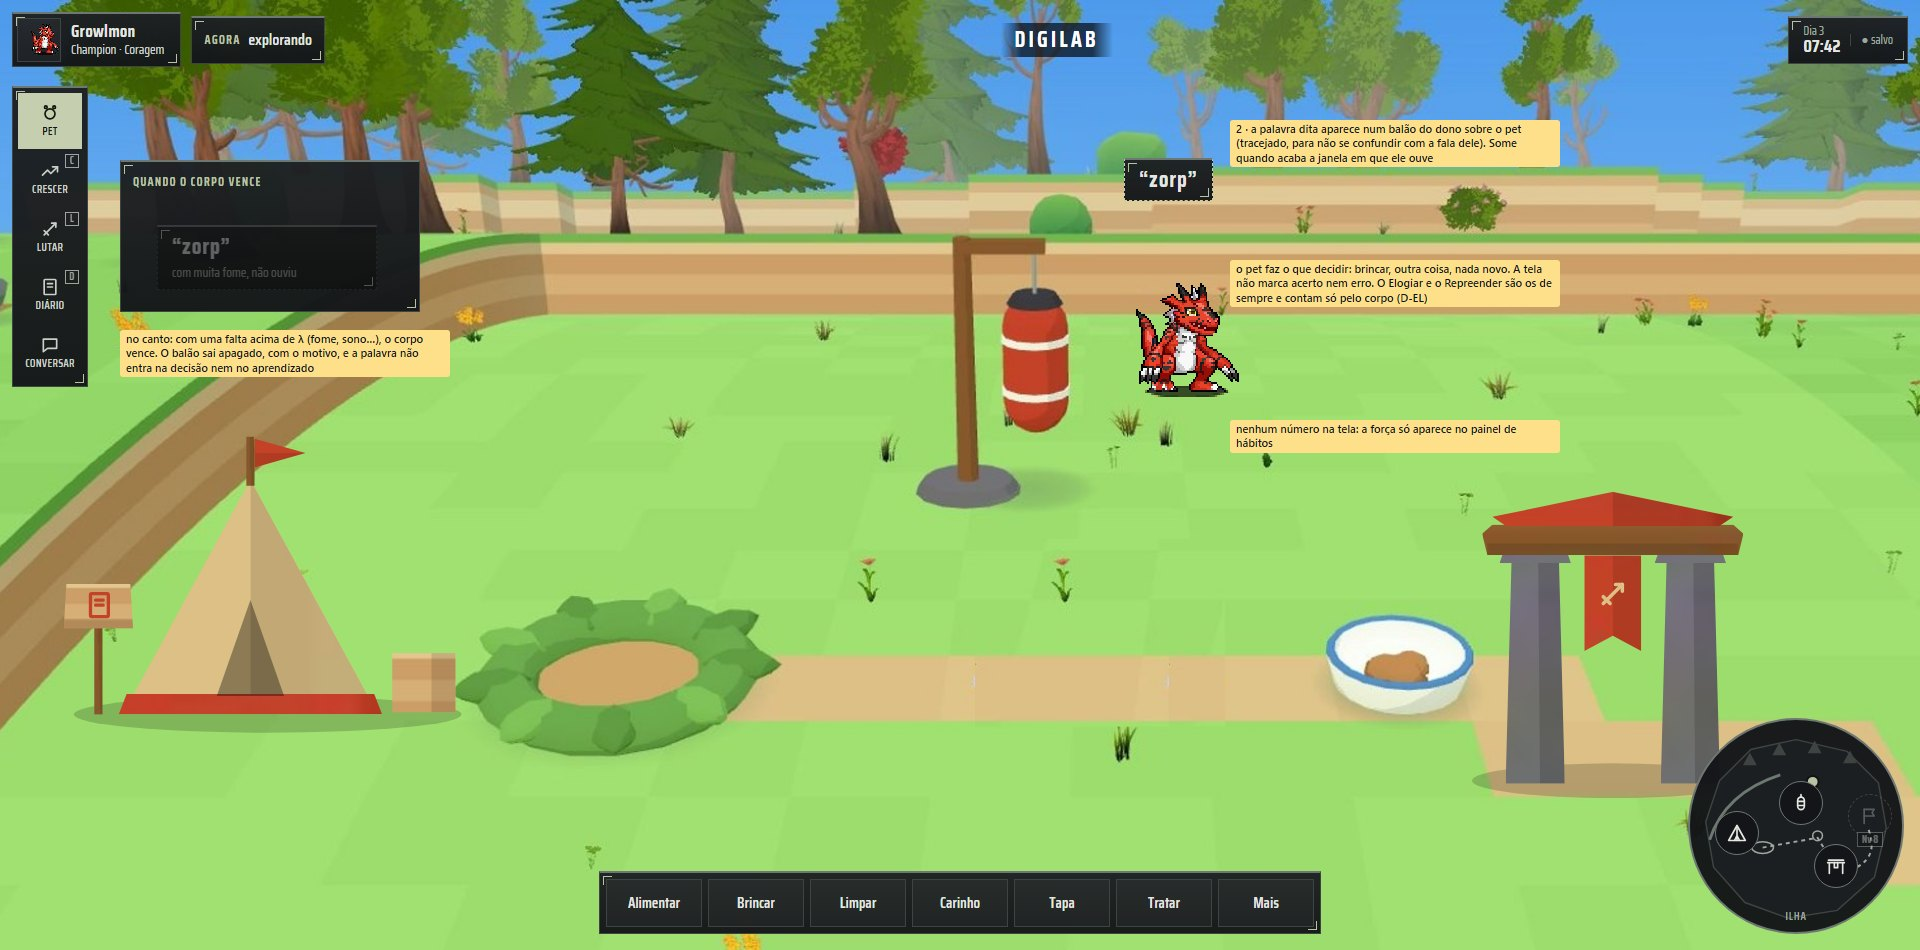
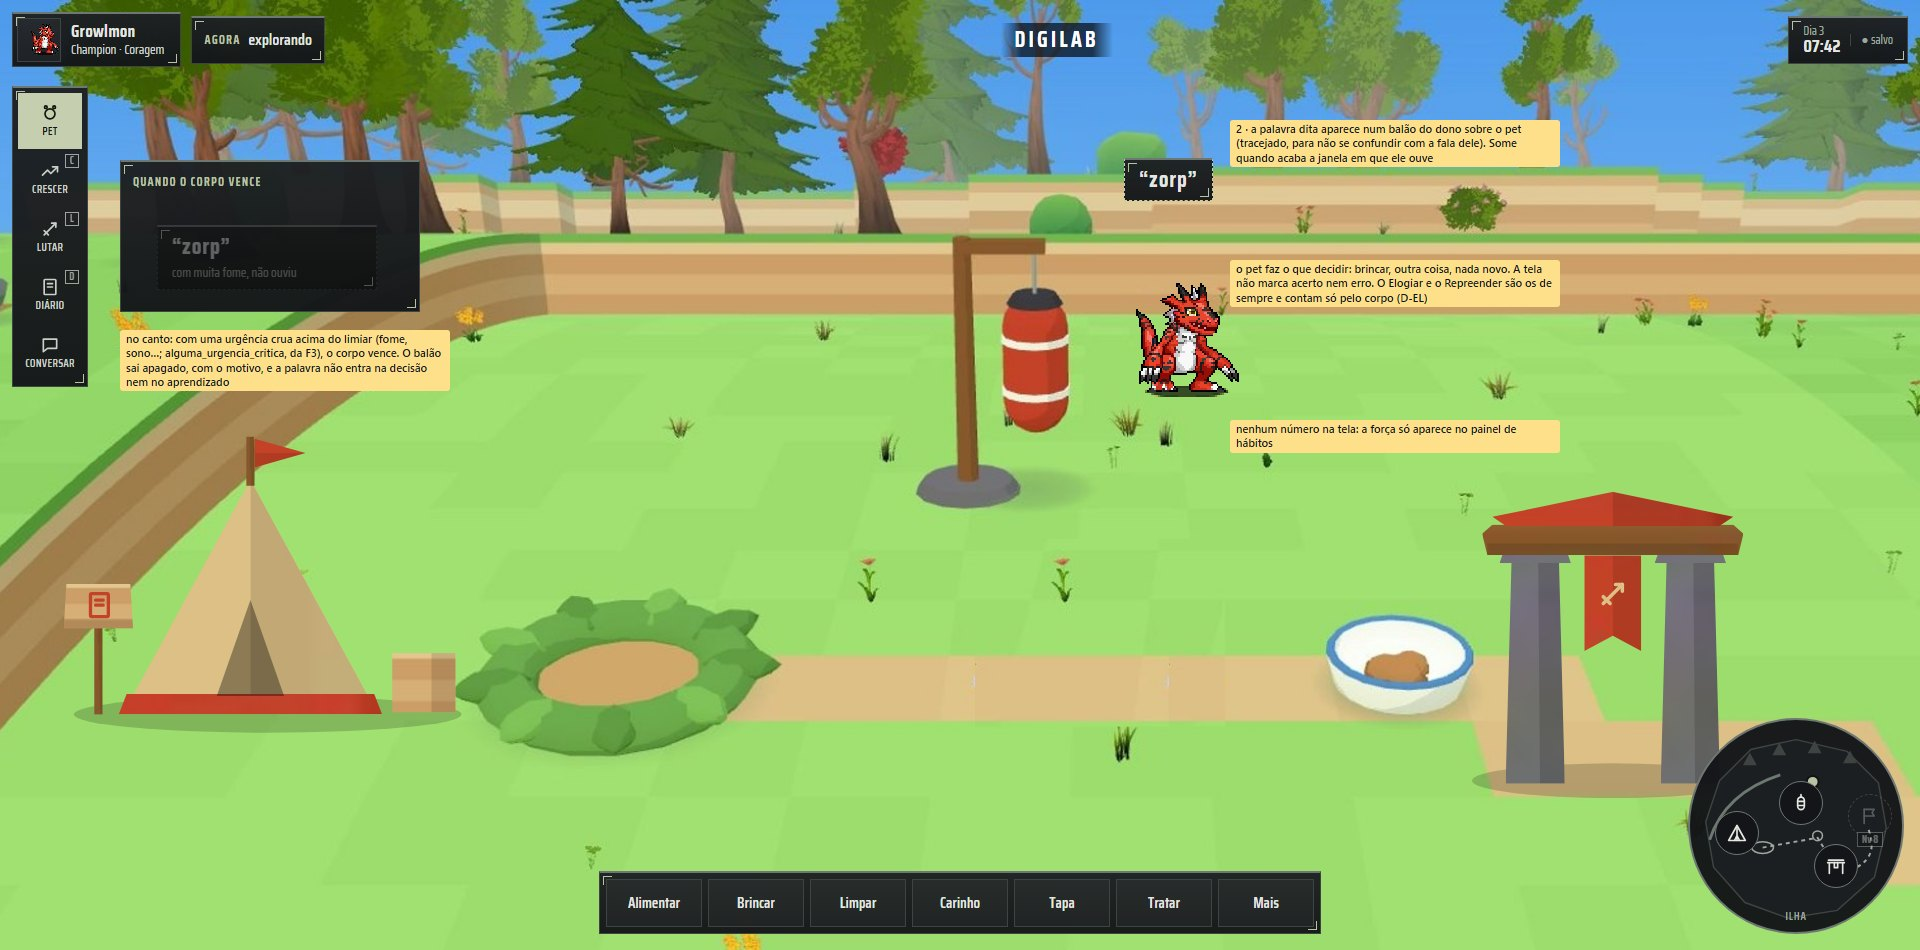
PALAVRA_DONO PD0: a porta le alguma_urgencia_critica (F3); acrescimos do GARP e do Dreyfus

Changed region(s): [[0.0625, 0.3358, 0.25, 0.4274]]

diff --git a/docs/pranchas/ux-palavra-dono/ouviu_1920.html b/docs/pranchas/ux-palavra-dono/ouviu_1920.html
@@ -30,4 +30,4 @@ addEventListener("load", () => {
   <path class="trilha" d="M74 130 L130 120 L146 146 L170 150 Q192 138 182 112"/>
   <ellipse class="coisa" cx="74" cy="130" rx="11" ry="6"/><circle class="coisa" cx="130" cy="118" r="5"/>
   <circle class="pet-ponto" cx="125" cy="63" r="6"/>
-</svg><button type="button" class="mini-bt" style="left:111px;top:83px" aria-label="Saco de pancada: Crescer"><svg class="ic" viewBox="0 0 24 24" aria-hidden="true"><path d="M12 2v3"/><rect x="8" y="5" width="8" height="15" rx="4"/><path d="M8 10h8M8 15h8"/></svg></button><button type="button" class="mini-bt" style="left:146px;top:146px" aria-label="Portão da arena: Lutar"><svg class="ic" viewBox="0 0 24 24" aria-hidden="true"><path d="M4 21V8M20 21V8M2 8h20M3 5h18"/><path d="M10 8v6h4V8"/></svg></button><button type="button" class="mini-bt" style="left:47px;top:113px" aria-label="Barraca do Tamer: Diário"><svg class="ic" viewBox="0 0 24 24" aria-hidden="true"><path d="M12 3L2 21h20z"/><path d="M12 3v18M9 21l3-6 3 6"/></svg></button><button type="button" class="mini-bt trancado" style="left:180px;top:96px" aria-disabled="true" aria-label="Fronteira, trancado, Nv 8: Abre com 6 medalhas"><svg class="ic" viewBox="0 0 24 24" aria-hidden="true"><path d="M5 21V4"/><path d="M5 4h12l-2.5 4L17 12H5"/></svg><span class="mini-nv">Nv 8</span></button><span class="mini-rot">ilha</span></nav><div class="caixa pl-balao" style="left:1124px;top:158px" role="status" aria-label="Você disse zorp"><span class="pl-dita">“zorp”</span></div><section class="caixa pl-inset" aria-label="Quando o corpo vence"><span class="rot">Quando o corpo vence</span><div class="pl-inset-cena"><div class="caixa pl-balao apagado" style="left:24px;top:34px" role="status" aria-label="Você disse zorp"><span class="pl-dita">“zorp”</span><span class="pl-motivo">com muita fome, não ouviu</span></div></div></section><span class="nota" style="left:1230px;top:120px;max-width:330px">2 · a palavra dita aparece num balão do dono sobre o pet (tracejado, para não se confundir com a fala dele). Some quando acaba a janela em que ele ouve</span><span class="nota" style="left:1230px;top:260px;max-width:330px">o pet faz o que decidir: brincar, outra coisa, nada novo. A tela não marca acerto nem erro. O Elogiar e o Repreender são os de sempre e contam só pelo corpo (D-EL)</span><span class="nota" style="left:120px;top:330px;max-width:330px">no canto: com uma falta acima de λ (fome, sono…), o corpo vence. O balão sai apagado, com o motivo, e a palavra não entra na decisão nem no aprendizado</span><span class="nota" style="left:1230px;top:420px;max-width:330px">nenhum número na tela: a força só aparece no painel de hábitos</span></body></html>
+</svg><button type="button" class="mini-bt" style="left:111px;top:83px" aria-label="Saco de pancada: Crescer"><svg class="ic" viewBox="0 0 24 24" aria-hidden="true"><path d="M12 2v3"/><rect x="8" y="5" width="8" height="15" rx="4"/><path d="M8 10h8M8 15h8"/></svg></button><button type="button" class="mini-bt" style="left:146px;top:146px" aria-label="Portão da arena: Lutar"><svg class="ic" viewBox="0 0 24 24" aria-hidden="true"><path d="M4 21V8M20 21V8M2 8h20M3 5h18"/><path d="M10 8v6h4V8"/></svg></button><button type="button" class="mini-bt" style="left:47px;top:113px" aria-label="Barraca do Tamer: Diário"><svg class="ic" viewBox="0 0 24 24" aria-hidden="true"><path d="M12 3L2 21h20z"/><path d="M12 3v18M9 21l3-6 3 6"/></svg></button><button type="button" class="mini-bt trancado" style="left:180px;top:96px" aria-disabled="true" aria-label="Fronteira, trancado, Nv 8: Abre com 6 medalhas"><svg class="ic" viewBox="0 0 24 24" aria-hidden="true"><path d="M5 21V4"/><path d="M5 4h12l-2.5 4L17 12H5"/></svg><span class="mini-nv">Nv 8</span></button><span class="mini-rot">ilha</span></nav><div class="caixa pl-balao" style="left:1124px;top:158px" role="status" aria-label="Você disse zorp"><span class="pl-dita">“zorp”</span></div><section class="caixa pl-inset" aria-label="Quando o corpo vence"><span class="rot">Quando o corpo vence</span><div class="pl-inset-cena"><div class="caixa pl-balao apagado" style="left:24px;top:34px" role="status" aria-label="Você disse zorp"><span class="pl-dita">“zorp”</span><span class="pl-motivo">com muita fome, não ouviu</span></div></div></section><span class="nota" style="left:1230px;top:120px;max-width:330px">2 · a palavra dita aparece num balão do dono sobre o pet (tracejado, para não se confundir com a fala dele). Some quando acaba a janela em que ele ouve</span><span class="nota" style="left:1230px;top:260px;max-width:330px">o pet faz o que decidir: brincar, outra coisa, nada novo. A tela não marca acerto nem erro. O Elogiar e o Repreender são os de sempre e contam só pelo corpo (D-EL)</span><span class="nota" style="left:120px;top:330px;max-width:330px">no canto: com uma urgência crua acima do limiar (fome, sono…; alguma_urgencia_critica, da F3), o corpo vence. O balão sai apagado, com o motivo, e a palavra não entra na decisão nem no aprendizado</span><span class="nota" style="left:1230px;top:420px;max-width:330px">nenhum número na tela: a força só aparece no painel de hábitos</span></body></html>

diff --git a/docs/pranchas/ux-palavra-dono/gerar.py b/docs/pranchas/ux-palavra-dono/gerar.py
@@ -130,7 +130,7 @@ def ouviu_1920() -> str:
     return cena("Ele ouviu", miolo,
                 G.nota("2 · a palavra dita aparece num balão do dono sobre o pet (tracejado, para não se confundir com a fala dele). Some quando acaba a janela em que ele ouve", 1230, 120, 330)
                 + G.nota("o pet faz o que decidir: brincar, outra coisa, nada novo. A tela não marca acerto nem erro. O Elogiar e o Repreender são os de sempre e contam só pelo corpo (D-EL)", 1230, 260, 330)
-                + G.nota("no canto: com uma falta acima de λ (fome, sono…), o corpo vence. O balão sai apagado, com o motivo, e a palavra não entra na decisão nem no aprendizado", 120, 330, 330)
+                + G.nota("no canto: com uma urgência crua acima do limiar (fome, sono…; alguma_urgencia_critica, da F3), o corpo vence. O balão sai apagado, com o motivo, e a palavra não entra na decisão nem no aprendizado", 120, 330, 330)
                 + G.nota("nenhum número na tela: a força só aparece no painel de hábitos", 1230, 420, 330))
 
 

diff --git a/docs/ESPEC_V3_PALAVRA_DONO.md b/docs/ESPEC_V3_PALAVRA_DONO.md
@@ -19,8 +19,8 @@ PacaPet (Karati e Kluver 2026, WOCHAT, `10.21437/WoChat.2026-2`, lido em texto c
   `W⁰` dela é 0, e o pet nasce sem ligar palavra a nada.
 - **Como ele aprende:** pela regra P2 do M-PLAST, **sem mudança**. Se o pet fez b com a palavra no ar e o corpo melhorou, `H[b, palavra]`
   sobe. O elogio pesa só pela mudança que faz no corpo, pela rota da D-EL-2. Não há sinal novo (D-PD-1).
-- **O corpo vence:** com a falta de qualquer receptor acima do joelho λ da urgência, a palavra fica fora daquela decisão. Ela não puxa e
-  não ganha elegibilidade.
+- **O corpo vence:** com alguma urgência crua acima do limiar (`alguma_urgencia_critica`, o predicado da F3), a palavra fica fora daquela
+  decisão. Ela não puxa e não ganha elegibilidade.
 - **O que o pet mostra:** quando uma ligação passa de um limiar, um cartão diz uma vez "Growlmon liga 'zorp' a brincar", e o painel de
   hábitos (WD-1, só leitura) lista as palavras com a força de cada ligação. **Nunca "entende"** (D-PD-2).
 - **Onde nasce:** no Python, atrás de uma subchave desligada, com paridade no TS (D-PD-4). A voz vem depois e gera o mesmo evento (D-PD-3).
@@ -99,12 +99,16 @@ todas).
 
 ### 3.4 A porta "o corpo vence"
 
-- **A regra:** se algum receptor tem `falta_r > λ_r`, ou seja, o termo convexo da urgência está ativo (`afeto.py:97`), então
-  `pal_k = 0` em z naquela decisão, para todo k.
+- **A regra:** se `alguma_urgencia_critica(urgencias)` é verdadeira, então `pal_k = 0` em z naquela decisão, para todo k. É o predicado da
+  F3 (`docs/ESPEC_V3_URGENCIAS.md`, seção 6.2, PR #958): `urgencias[r] > urgencia_lambda` sobre as urgências **cruas** do M-AFETO. É o
+  mesmo teste das guardas de hoje (`arb.py`, `estado.py:142`, `adapt.py:345`). A guarda compara a **urgência** com o limiar, e não a falta:
+  com os inatos padrão, a urgência passa do limiar com a falta acima de 640, e na v38 e na v39, acima de 800 (números da F3).
 - **Efeito no aprendizado:** como a elegibilidade é `e_j = z_j`, a palavra também não ganha crédito numa decisão dessas. O pet com fome
   crítica não aprende "zorp" comendo.
-- **Ligação com a F3:** se a F3 (prioridade entre urgências) definir um predicado explícito de "urgência crítica", esta porta passa a ler
-  esse predicado, e não um limiar próprio. Combinado com a sessão `f3-urgencias` por nota em 2026-11-17. **A palavra não é um impulso:**
+- **Ligação com a F3:** a D-UR-8 da F3 (decidida pelo Matheus no chat da F3 em 2026-11-17) diz que a palavra não passa pela prioridade da
+  F3, e que o "corpo vence" é uma guarda própria sobre esse predicado. A primeira versão desta espec dizia "falta acima de λ". A correção
+  para a urgência acima do limiar segue o texto da tarefa ("urgência acima de λ ignora a palavra") e as guardas de hoje. Está registrada no
+  registro do mês. **A palavra não é um impulso:**
   não entra na urgência nem no sinal do corpo, e por isso a F4 não depende de uma decisão da F3.
 
 ### 3.5 O aprendizado (D-PD-1): a P2 sem mudança
@@ -118,6 +122,13 @@ todas).
   - Um dono que diz "zorp" para o pet comer sem fome não liga nada. A comida não alivia o corpo, e nada credita.
 - **O que isso não ensina (o custo assumido da D-PD-1):** uma palavra para uma ação sem efeito no corpo ("Senta", quando existir) só se
   liga pelo carinho, pela D-EL. Sem a D-EL, ela não se liga. Isso é o mecanismo, não um defeito a calibrar.
+- **Dizer muitas vezes não é funcionar.** O GARP mostra o risco de a repetição pesar demais (quatro notas quase iguais venceram uma
+  diferente; vault, `LEITURA_GARP_2026-11-17.md`). Aqui ele não aparece por três razões:
+  - a palavra só muda o H quando o corpo responde (`r_n ≠ 0`), e dizer sem consequência não soma nada;
+  - repetir dentro da janela `W_p` não empilha (EN-5): é uma elegibilidade por opção, e não uma por vez que o dono disse;
+  - o braço S do teste (6.1) separa a exposição da contingência.
+
+  O que conta é quantas vezes a palavra esteve no ar quando o corpo melhorou.
 - **A sutileza que o teste mede:** a P2 não tem competição entre as colunas, como teria uma regra delta. A palavra e o contexto ganham
   crédito juntos. Um dono que diz "zorp" sempre no mesmo contexto ensina "zorp" e ensina o contexto. Só a sonda fora desse contexto
   (seção 6.3) separa os dois.
@@ -164,6 +175,15 @@ nome, não aprendizado. A IT6 já cobre isso.
   Isso vale para a tela, as dicas do Professor Agumon e a fala.
 - **A fala:** uma palavra aprendida não é um conceito da fala. A voz não a cita como compreendida, e o verificador recusa uma frase que diga
   que o pet entendeu o dono. Se a frase pode citar a palavra (o pet repete "zorp") é uma pergunta futura, fora desta espec.
+
+### 3.8b De quem vale a palavra
+
+Nesta espec, só a do dono do pet, pelo arco daquele pet: o evento `pl` vai ao registro de um pet só. O GARP lembra que a palavra de primeira
+mão vale mais que a de segunda (vault, `LEITURA_GARP_2026-11-17.md`). Três casos ficam **fora** e voltam como pergunta própria, se um dia
+fizerem sentido:
+- uma palavra dita por outro dono (o MMO);
+- uma palavra ouvida de outro pet;
+- uma palavra passada do pet ao gêmeo dele.
 
 ### 3.9 O registro e o replay
 
@@ -247,7 +267,7 @@ Todos usam:
 - **P0, técnica:** no braço C, `H[brincar, pal_zorp]` sai de 0, e o registro mostra as atualizações.
 - **P1, do corpo:** neste mundo, brincar dá `r_n > 0` com tédio alto. Sem isso, a D-PD-1 não tem o que ligar, e o teste para aí,
   registrado.
-- **P2, a porta:** com uma falta acima de λ, `pal_k = 0` e a elegibilidade da palavra é 0. É conferência de mecanismo, por um teste
+- **P2, a porta:** com `alguma_urgencia_critica` verdadeira, `pal_k = 0` e a elegibilidade da palavra é 0. É conferência de mecanismo, por um teste
   unitário, e não uma hipótese.
 
 ### 6.3 A medida: a sonda contrafactual
@@ -322,6 +342,10 @@ As perguntas foram levadas com a recomendação e o custo de errar, e as respost
 - **A P2 e o sustento dela** (Cliff e Grand 1999; Frémaux e Gerstner 2016; Gerstner et al. 2018; Keramati e Gutkin 2014): os da espec do
   modular, seção 2.4, sem nada novo.
 - **O sinal do corpo como terceiro fator continua SEM FONTE** (espec do modular, seção 2.4), e a palavra herda isso.
-- **"Nunca escrever que o pet entende"** (a skill, a rodada Dreyfus de 2026-11-16, Searle 1980): é enquadramento, e a D-PD-2 o segue.
+- **Dreyfus (2002)**, `10.1023/A:1021351606209`, VERIFICADA pelo texto completo (a skill; o PR #954). A fonte afirma que uma das
+  restrições do corpo é medir o sucesso pela satisfação do próprio agente, e não pelo critério do pesquisador. **Leitura do DigiLab:** é um
+  enquadramento a favor da D-PD-1 (o desfecho no corpo, e não o elogio), e não evidência de que ela funciona. A outra restrição dele, a
+  ordem das experiências, conversa com o braço C × I.
+- **"Nunca escrever que o pet entende"** (a skill, a rodada Dreyfus de 2026-11-16, Searle 1980 e Harnad 1990, VERIFICADAS): é enquadramento, e a D-PD-2 o segue.
 - **Nenhuma alegação de novidade.** A palavra livre que vira gatilho está publicada (PacaPet), e o comportamento ensinado também (a regra 3
   da skill). O que resta é o teste com braço de controle, e ele também não é contribuição sem uma busca dirigida.

diff --git a/docs/TAREFA_V3_PALAVRA_DONO.md b/docs/TAREFA_V3_PALAVRA_DONO.md
@@ -19,8 +19,8 @@ de interação. A espec é a [`ESPEC_V3_PALAVRA_DONO.md`](ESPEC_V3_PALAVRA_DONO.
 - **Para a PD1, o código Python:** a LZ2a da LIMPEZA (o modular na base nova) e a etapa 2 do [`TAREFA_V3_ELOGIO.md`](TAREFA_V3_ELOGIO.md)
   (o crédito do carinho pelo corpo, a rota única do elogio até a palavra).
 - **Para a PD3, a vista:** a IT3 (o arco do pet) e o painel de hábitos (WD-1) do [`PLANO_V3_INTERACAO.md`](PLANO_V3_INTERACAO.md).
-- **Da F3:** nenhuma decisão. A palavra não é impulso. Se a F3 criar um predicado de "urgência crítica", a porta do 3.4 o lê (combinado por
-  nota em 2026-11-17).
+- **Da F3:** só o predicado `alguma_urgencia_critica` (`docs/ESPEC_V3_URGENCIAS.md`, seção 6.2, PR #958), que a porta do 3.4 lê. A
+  palavra não é impulso. A D-UR-8 da F3 (decidida pelo Matheus no chat da F3) põe o "corpo vence" como guarda própria.
 
 ## 3. Mudança mínima
 
@@ -77,7 +77,7 @@ Nada nesta etapa: D-PD-5 a D-PD-9 foram DECIDIDAS em 2026-11-17 pela recomendaç
   mais um que a sessão achou: a EN-4 põe o pedido só no TS, e a regra comum põe mecânica nova no Python. Ele decidiu os quatro pela
   recomendação.
 - **A espec** liga a palavra pela P2 sem mudança: uma característica nova de z (`pal_k`, com 4 vagas), com o inato 0, a porta do corpo
-  acima de λ e o evento `pl` no registro. Ela mostra por que a tabela de contagem do PacaPet não basta (a seção 3.7).
+  (`alguma_urgencia_critica`) e o evento `pl` no registro. Ela mostra por que a tabela de contagem do PacaPet não basta (a seção 3.7).
 - **A prancha** tem cinco telas: o Dizer… no arco, o balão do dono (com o caso do corpo que vence), o cartão "liga" e a seção Palavras no
   painel de hábitos. As capturas estão nas peles Vidro e Militar.
 - **O teste:** C × I × S pela sonda contrafactual, sem rng nova.

diff --git a/docs/registro/2026-11.md b/docs/registro/2026-11.md
@@ -8838,8 +8838,16 @@ vidas de hoje foi gravado antes, num commit próprio (`tests/gabaritos/orgao_vis
 - **Achado: um conflito fora da lista do prompt (D-PD-4).** A EN-4 põe o pedido do arco só no TS, e a regra comum põe mecânica nova no
   Python com paridade. A palavra aprende na rede e precisa de teste com braço de controle, então nasce no Python. A IT6, o pedido fixo, não
   muda.
-- **Interpretação: o "corpo vence" lê o joelho λ por receptor** (`afeto.py:97`), porque ainda não há um predicado de "urgência crítica". Se a
-  F3 criar um, a porta passa a lê-lo (combinado por nota na pasta das sessões, 2026-11-17).
+- **Correção: o "corpo vence" é a urgência crua acima do limiar, não a falta acima de λ.** A primeira versão da espec lia a falta acima
+  do joelho (`afeto.py:97`). A F3 nomeou o predicado `alguma_urgencia_critica(urgencias)` (`urgencias[r] > urgencia_lambda`, PR #958, seção
+  6.2), que é o teste das guardas de hoje e o texto da tarefa ("urgência acima de λ"). A D-UR-8 da F3 (decidida pelo Matheus no chat da F3)
+  diz que a palavra não passa pela prioridade da F3 e usa essa guarda própria. A espec passou a ler o predicado.
+- **Acréscimos vindos da leitura do GARP e do Dreyfus** (repassados pela sessão de referências a pedido do Matheus):
+  - "dizer muitas vezes não é funcionar" (3.5);
+  - "de quem vale a palavra": só o dono do pet, e os outros casos ficam fora (3.8b);
+  - Dreyfus 2002 como enquadramento da D-PD-1 (seção 9).
+
+  Nenhuma decisão muda.
 - **Interpretação: o alvo fica atrás de uma segunda subchave** (D-PD-6, pendente). O H é por comportamento, e "zorp" puxa brincar, não
   aquela bola.
 - **Números novos, todos PROPOSTOS, SEM FONTE:**
